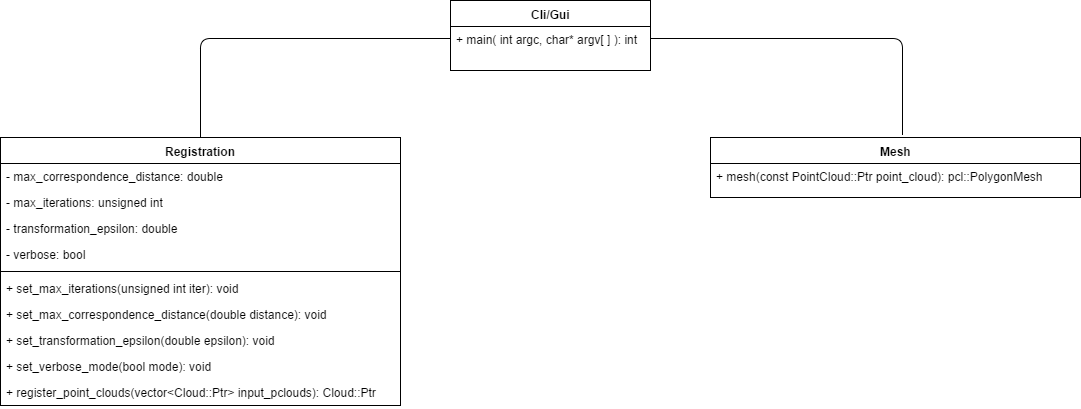
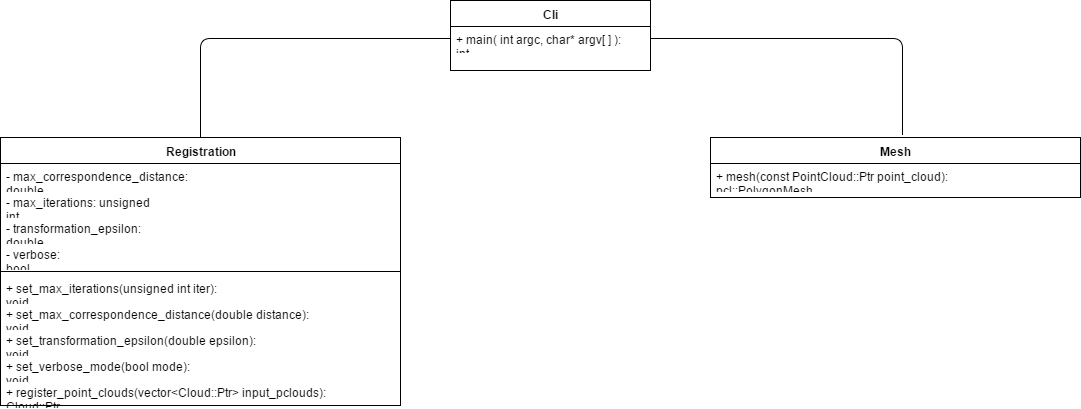
Klassdiagram in results

diff --git a/results.tex b/results.tex
@@ -54,7 +54,7 @@ Som kan ses i figurerna \ref{fig:noddiagram} och \ref{fig:systembeskrivning_gaml
 Som kan läsas tidigare i denna rapport omförhandlades projektets krav och mål med kunden under projektets gång. Detta ledde till att gruppen gjorde om systemets arkitektur. ROS-arkitekturen som presenterats i avsnitt \ref{cha:results-systembeskrivning-treed} ersattes. Istället skapades ett objektorienterat program, skrivet i C++. Detta program utför både registrering, filtrering och meshning. När sedan meshen genererats kan programmet skriva ut objektet med hjälp av en 3D-skrivare. Till detta program finns också ett CLI och ett GUI.
 
 \subsection{Arkitektur}
-Programmet består av två större klasser, \textit{Registration} och \textit{Mesh}. Dessa två klasser används sedan av antingen \textit{Cli}  eller \textit{Gui} klasserna, vilket visas i figur \ref{fig:class_diagram}.  Det har lagts stor vikt vid moduläriteten i programmet då \textit{Registration} och \textit{Mesh} ska fungera självständigt i olika program.
+Programmet består av två större klasser, \textit{Registration} och \textit{Mesh}. Dessa två klasser används sedan av \textit{Cli} vilket visas i figur \ref{fig:class_diagram}.  Det har lagts stor vikt vid moduläriteten i programmet då \textit{Registration} och \textit{Mesh} ska fungera självständigt i olika program.
 
 \begin{figure}[H]
 	\centering
